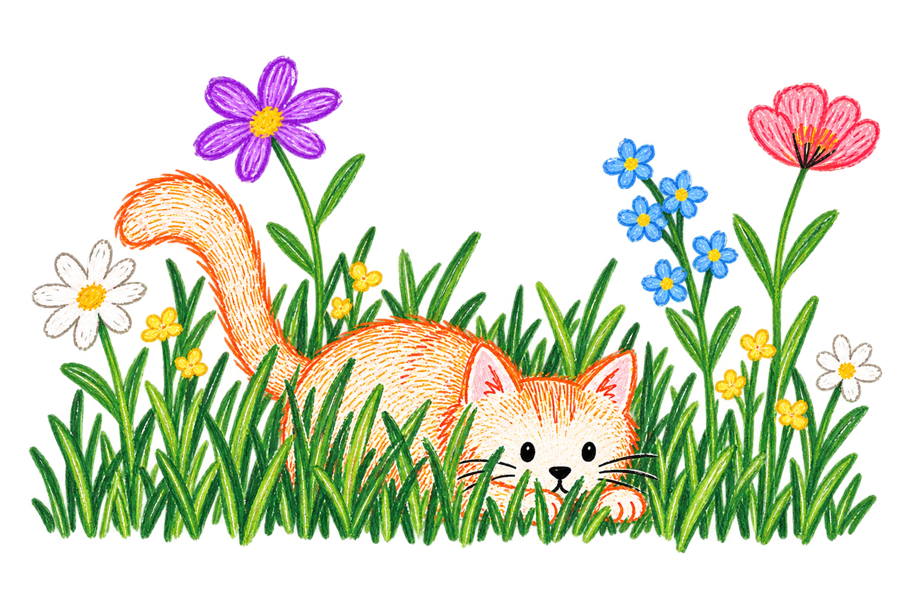
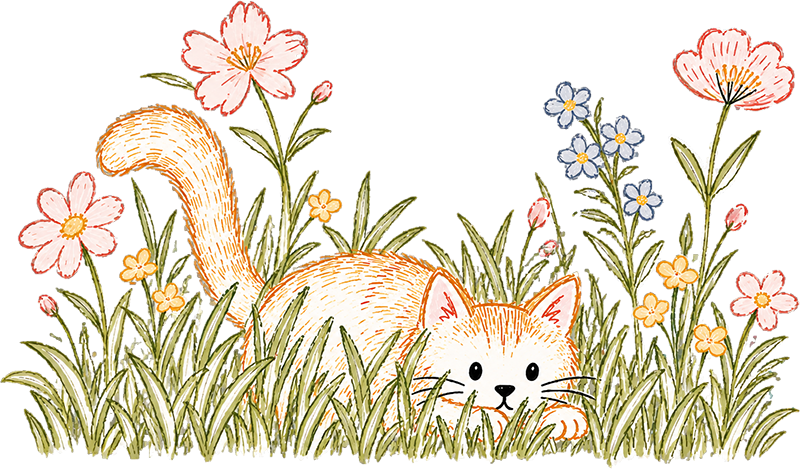
fix(wedding): pin Wedding Day artwork to page bottom

diff --git a/apps/personal/wedding-website/wedding-website-web/src/styles/weddingDay.test.ts b/apps/personal/wedding-website/wedding-website-web/src/styles/weddingDay.test.ts
@@ -10,7 +10,7 @@ describe("Wedding Day page styles", () => {
       /\.wedding-day-page__intro time \{[^}]*margin-block-start: var\(--space-32\);/
     );
     expect(normalizedWeddingDayCss).toMatch(
-      /@media \(max-width: 47\.49rem\) \{.*\.wedding-day-page__content \{ padding-block-start: var\(--space-32\); \}/
+      /@media \(max-width: 47\.49rem\) \{.*\.wedding-day-page__content \{ padding-block: var\(--space-32\) var\(--space-24\); \}/
     );
     expect(normalizedWeddingDayCss).toMatch(
       /@media \(max-width: 47\.49rem\) \{.*\.wedding-day-page__peripheral-art \.wedding-corner-floral \{ top: -1rem; left: -2\.5rem; width: 9rem; \}/
@@ -23,9 +23,15 @@ describe("Wedding Day page styles", () => {
     );
   });
 
-  it("gives the closing illustration a prominent responsive size", () => {
+  it("pins the closing illustration to the full-width page bottom", () => {
     expect(normalizedWeddingDayCss).toMatch(
-      /\.wedding-day-page__closing-accent \{[^}]*width: min\(100%, 24rem\);[^}]*aspect-ratio: 3 \/ 2;/
+      /\.wedding-day-page \{[^}]*display: flex;[^}]*flex-direction: column;[^}]*padding-block-start: var\(--space-32\);/
+    );
+    expect(normalizedWeddingDayCss).toMatch(
+      /\.wedding-day-page__frame \{[^}]*flex: 1 0 auto;/
+    );
+    expect(normalizedWeddingDayCss).toMatch(
+      /\.wedding-day-page__closing-accent \{[^}]*width: 100%;[^}]*aspect-ratio: 800 \/ 469;[^}]*margin-block-start: auto;/
     );
   });
 });

diff --git a/apps/personal/wedding-website/wedding-website-web/src/styles/weddingDay.css b/apps/personal/wedding-website/wedding-website-web/src/styles/weddingDay.css
@@ -1,16 +1,18 @@
 .wedding-day-page {
   position: relative;
   isolation: isolate;
+  display: flex;
   min-height: calc(100dvh - var(--guest-header-height));
+  flex-direction: column;
   overflow: hidden;
-  padding-block: var(--space-32)
-    max(var(--space-64), env(safe-area-inset-bottom));
+  padding-block-start: var(--space-32);
   background-color: var(--color-paper);
 }
 
 .wedding-day-page__frame {
   position: relative;
   z-index: 1;
+  flex: 1 0 auto;
 }
 
 .wedding-day-page__content {
@@ -18,7 +20,7 @@
   max-width: 42rem;
   flex-direction: column;
   align-items: center;
-  padding-block-start: clamp(var(--space-64), 8vw, 6rem);
+  padding-block: clamp(var(--space-64), 8vw, 6rem) var(--space-48);
   margin-inline: auto;
   text-align: center;
 }
@@ -80,9 +82,10 @@
 
 .wedding-day-page__closing-accent {
   position: relative;
-  width: min(100%, 24rem);
-  aspect-ratio: 3 / 2;
-  margin-block-start: var(--space-24);
+  z-index: 1;
+  width: 100%;
+  aspect-ratio: 800 / 469;
+  margin-block-start: auto;
 }
 
 .wedding-day-page__closing-illustration {
@@ -104,7 +107,7 @@
 
 @media (max-width: 47.49rem) {
   .wedding-day-page__content {
-    padding-block-start: var(--space-32);
+    padding-block: var(--space-32) var(--space-24);
   }
 
   .wedding-day-page__peripheral-art .wedding-corner-floral {

diff --git a/apps/personal/wedding-website/wedding-website-web/src/weddingDay/WeddingDayPage.tsx b/apps/personal/wedding-website/wedding-website-web/src/weddingDay/WeddingDayPage.tsx
@@ -51,19 +51,19 @@ function WeddingDayPage() {
               together.
             </p>
           </section>
-
-          <div className="wedding-day-page__closing-accent">
-            <DecorativeLayer>
-              <ProgressiveImage
-                {...weddingImageAssets.weddingDayCatGarden}
-                alt=""
-                className="wedding-day-page__closing-illustration"
-                draggable={false}
-              />
-            </DecorativeLayer>
-          </div>
         </div>
       </ContentFrame>
+
+      <div className="wedding-day-page__closing-accent">
+        <DecorativeLayer>
+          <ProgressiveImage
+            {...weddingImageAssets.weddingDayCatGarden}
+            alt=""
+            className="wedding-day-page__closing-illustration"
+            draggable={false}
+          />
+        </DecorativeLayer>
+      </div>
     </main>
   );
 }

diff --git a/apps/personal/wedding-website/ASSET_INVENTORY.md b/apps/personal/wedding-website/ASSET_INVENTORY.md
@@ -55,7 +55,7 @@ production bundle:
 | `cats/cat-sleeping-02.png`               | Sleeping-cat decorative variant                        |     500×500 |   160 KiB |                   100×100, 12 KiB |
 | `cats/cat-sleeping-03.png`               | Sleeping-cat decorative variant                        |     500×500 |   273 KiB |                   100×100, 18 KiB |
 | `cats/cat-sleeping-04.png`               | Sleeping-cat decorative variant                        |     500×500 |   246 KiB |                   100×100, 16 KiB |
-| `cats/wedding-day-cat-garden.png`        | Wedding Day closing cat-and-flower illustration        |     900×600 |   804 KiB |                   150×100, 28 KiB |
+| `cats/wedding-day-cat-garden.png`        | Wedding Day closing cat-and-flower illustration        |     800×469 |   703 KiB |                    100×59, 20 KiB |
 | `florals/floral-cluster-01.png`          | Large floral decorative cluster                        |     800×533 |   368 KiB |                    100×67, 16 KiB |
 | `florals/floral-cluster-02.png`          | Large floral decorative cluster                        |     800×533 |   438 KiB |                    100×67, 18 KiB |
 | `florals/floral-sprig-01.png`            | Single floral sprig                                    |     300×955 |   230 KiB |                   100×318, 38 KiB |
